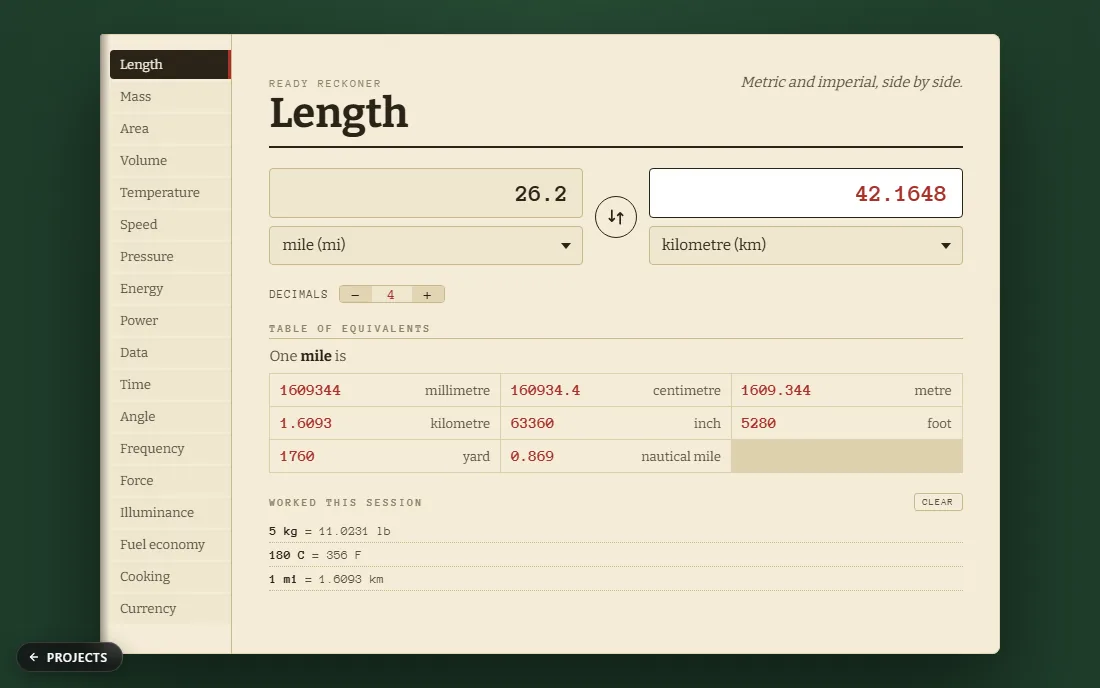
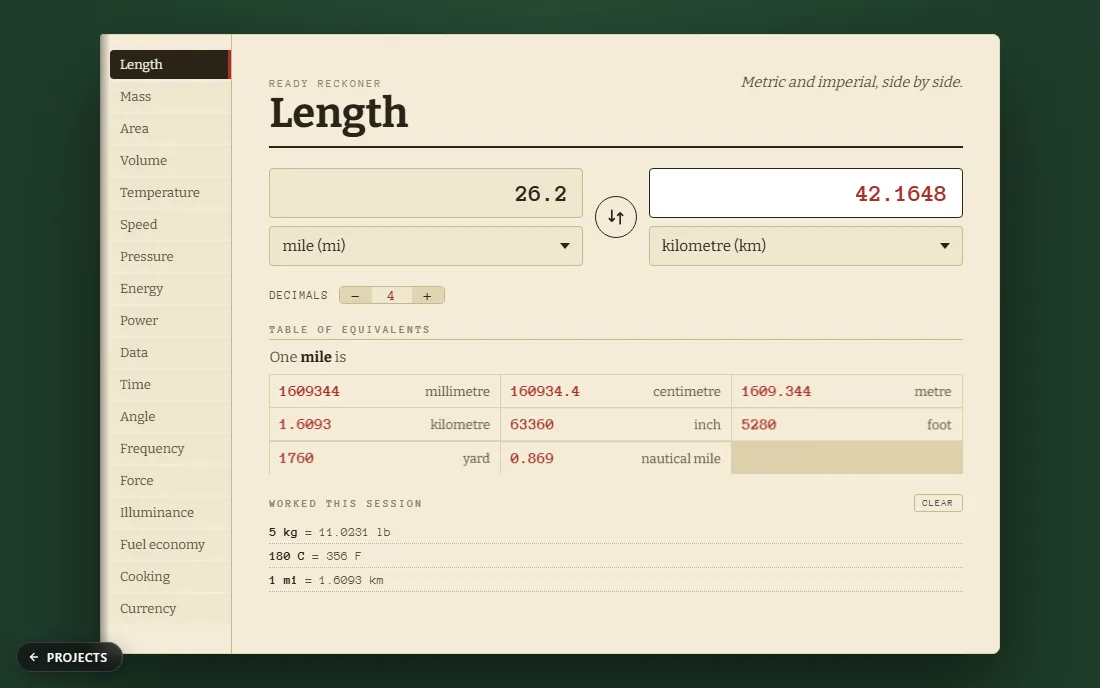
feat(portfolio): refresh Sapper and Tetrograd cards and thumbnails
- rename Deep Six -> Sapper and Dry Dock -> Tetrograd in the PROJECTS
  data; new accents (95 titlebar blue, phosphor amber), taglines,
  signature lines and tags; slugs unchanged
- refresh the Tools highlights for Lightbooth, Specimen, Slipbox and
  Ready Reckoner to match the new features
- re-shot all six 1100x688 thumbnails
- 404.html: recolour the two spectrum segments, add sapper/tetrograd
  name aliases to the jump box, refresh the hint

diff --git a/404.html b/404.html
@@ -91,7 +91,7 @@
       <svg viewBox="0 0 24 24" fill="none" stroke="currentColor" stroke-width="2" stroke-linecap="round" aria-hidden="true"><circle cx="11" cy="11" r="7"/><line x1="16.5" y1="16.5" x2="21" y2="21"/></svg>
       <input type="text" id="jumpInput" placeholder="Type a project name" autocomplete="off" spellcheck="false" aria-label="Jump to a project" />
     </label>
-    <p class="jump-hint" id="jumpHint">Try <b>reckoner</b>, <b>deep-six</b>, <b>slipbox</b>...</p>
+    <p class="jump-hint" id="jumpHint">Try <b>sapper</b>, <b>tetrograd</b>, <b>slipbox</b>...</p>
 
     <div class="hero-cta">
       <a class="btn btn-primary" href="/">Back to the wall</a>
@@ -101,7 +101,7 @@
 
   <script>
     var SLUGS = ["badlands","nibble","tic-tac-toe","arcade-hub","deep-six","dry-dock","cashbook","the-flatbed","soundroom","halcyon","xchange","the-cellar-door","taskly","vernier","the-sorting-office","meridian","lightbooth","specimen","slipbox","reckoner","spotify-clone","windows-11-ui-clone","compile","ephemeris","off-the-record","dispatch","deblog","ironclad","cinder-and-salt","the-order-window","thread-and-rail","kestrel","kino","sillage","the-terminal","deadstock","umbral","ember-and-anvil","nine-fifty-four","willowcomb"];
-    var ACCENTS = ["#f0a03c","#9ead86","#f2d47f","#12d0e6","#46c98a","#f2a81e","#b5292f","#ff5a1f","#e8933a","#6aa9d8","#ffce2e","#c9a227","#d0913f","#ff6248","#b0413e","#c8a45c","#d94f8c","#e2483d","#a9762f","#297a52","#1db954","#4b6bff","#a4e22e","#e3c27b","#a03c38","#ffb000","#c0392b","#ff6600","#d5622d","#ff3d81","#b81f2c","#8a7355","#e8a33d","#a2564e","#12d0e6","#ccff00","#ff7a33","#ff6a1a","#b8863f","#e9a227"];
+    var ACCENTS = ["#f0a03c","#9ead86","#f2d47f","#12d0e6","#1084d0","#ffb000","#b5292f","#ff5a1f","#e8933a","#6aa9d8","#ffce2e","#c9a227","#d0913f","#ff6248","#b0413e","#c8a45c","#d94f8c","#e2483d","#a9762f","#297a52","#1db954","#4b6bff","#a4e22e","#e3c27b","#a03c38","#ffb000","#c0392b","#ff6600","#d5622d","#ff3d81","#b81f2c","#8a7355","#e8a33d","#a2564e","#12d0e6","#ccff00","#ff7a33","#ff6a1a","#b8863f","#e9a227"];
 
     var spectrum = document.getElementById("spectrum");
     SLUGS.forEach(function (s, i) {
@@ -111,11 +111,16 @@
       spectrum.appendChild(seg);
     });
 
+    /* a few projects go by a name that is not their slug */
+    var ALIAS = { sapper: "deep-six", tetrograd: "dry-dock" };
+
     var input = document.getElementById("jumpInput");
     var hint = document.getElementById("jumpHint");
     function match(q) {
       q = q.trim().toLowerCase().replace(/\s+/g, "-");
       if (!q) return null;
+      if (ALIAS[q]) return ALIAS[q];
+      for (var a in ALIAS) { if (a.indexOf(q) === 0) return ALIAS[a]; }
       return SLUGS.find(function (s) { return s === q || s.indexOf(q) === 0; }) ||
              SLUGS.find(function (s) { return s.indexOf(q) > -1; });
     }

diff --git a/js/script.js b/js/script.js
@@ -18,12 +18,12 @@ const PROJECTS = [
   { slug: "arcade-hub", name: "Arcade Hub", cat: "game", accent: "#12d0e6", built: "2026-06",
     tagline: "Eight mini-games in one CRT arcade cabinet.",
     sig: "Eight games in one", tags: ["8 games", "Scanlines", "High scores"] },
-  { slug: "deep-six", name: "Deep Six", cat: "game", accent: "#46c98a", built: "2026-09",
-    tagline: "Minesweeper as a submarine sonar console.",
-    sig: "Sonar-sweep reveals", tags: ["First-click safe", "Chording", "Best-dive log"] },
-  { slug: "dry-dock", name: "Dry Dock", cat: "game", accent: "#f2a81e", built: "2026-09",
-    tagline: "Tetris as a dockyard container crane.",
-    sig: "Clear a tier, ship sails", tags: ["Canvas", "7-bag", "Hold + ghost"] },
+  { slug: "deep-six", name: "Sapper", cat: "game", accent: "#1084d0", built: "2026-09",
+    tagline: "Minesweeper the way Windows 95 shipped it.",
+    sig: "Smiley, LED counters, chording", tags: ["First-click safe", "Chording", "Best times"] },
+  { slug: "dry-dock", name: "Tetrograd", cat: "game", accent: "#ffb000", built: "2026-09",
+    tagline: "Tetris on a Soviet lab terminal, 1984.",
+    sig: "Pieces are [ ] brackets", tags: ["VT323 phosphor", "7-bag", "Hold + ghost"] },
 
   // tools
   { slug: "cashbook", name: "Cashbook", cat: "tool", accent: "#b5292f", built: "2026-08",
@@ -61,10 +61,10 @@ const PROJECTS = [
     sig: "Loupe + palette extract", tags: ["Eyedropper", "OKLCH", "WCAG contrast"] },
   { slug: "specimen", name: "Specimen", cat: "tool", accent: "#e2483d", built: "2026-09",
     tagline: "A type-foundry specimen book of nearly sixty faces.",
-    sig: "Set in your own words", tags: ["Google Fonts", "Type tester", "Pairings"] },
+    sig: "Compare, OpenType, waterfall", tags: ["Google Fonts", "Compare mode", "OpenType"] },
   { slug: "slipbox", name: "Slipbox", cat: "tool", accent: "#a9762f", built: "2026-09",
     tagline: "Notes as index cards in a card catalogue.",
-    sig: "Bracket links + backlinks", tags: ["Markdown-lite", "Wikilinks", "localStorage"] },
+    sig: "Bracket links + backlinks", tags: ["Markdown-lite", "Wikilinks", "Quick-open"] },
   { slug: "reckoner", name: "Ready Reckoner", cat: "tool", accent: "#297a52", built: "2026-09",
     tagline: "A pocket conversion book for units and live currency.",
     sig: "Everything, plus currency", tags: ["18 categories", "Live rates", "Equivalents"] },

diff --git a/README.md b/README.md
@@ -47,8 +47,8 @@ one opens it full screen. It is the site's front page.
 | [Nibble](nibble/) | Nokia 3310 olive LCD in a candybar phone | Classic/Wrap/Maze/Daily modes, combo scoring, swappable screen colour, local top-5, ghost run |
 | [Tic Tac Toe](tic-tac-toe/) | Schoolyard chalkboard in a wooden frame | Minimax AI (3 difficulties), confetti, sound |
 | [Arcade Hub](arcade-hub/) | CRT arcade cabinet with scanlines | 8 mini-games: Wordle, 2048, Simon, Memory and more |
-| [Deep Six](deep-six/) | Minesweeper as a submarine sonar console | First-click safe, flood reveal, chording, sonar-sweep pings, 3 hull sizes, custom board, keyboard play, best-dive log |
-| [Dry Dock](dry-dock/) | Tetris as a dockyard gantry crane | Canvas engine, 7-bag randomiser, ghost piece, crane-park hold, lock delay, rising-tide levels, manifest queue, high score |
+| [Sapper](deep-six/) | Minesweeper the way Windows 95 shipped it | Silver bevels, LED mine and timer counters, the smiley reset button, classic digit colours, first-click safe, flood reveal, chording, question marks, custom field, keyboard play, best times, optional sound |
+| [Tetrograd](dry-dock/) | Tetris on a Soviet Elektronika 60 terminal, 1984 | Amber phosphor, scanlines, pieces drawn as bracket pairs, boot sequence, 7-bag, ghost piece, hold, lock delay, level gravity, square-wave beeps, screen shake, high score |
 
 ## Tools and apps
 
@@ -64,10 +64,10 @@ one opens it full screen. It is the site's front page.
 | [Vernier](vernier/) | Cyanotype blueprint drafting sheet | Six sheets - standard, scientific, programmer, unit converter, date, finance - with a revision record |
 | [The Sorting Office](the-sorting-office/) | Postal-desk email inspector | Live DoH domain lookup, disposable and gibberish detection, batch sorting, inspection-ledger stats, night shift |
 | [Meridian](meridian/) | Luxury horology, five dial finishes | SVG watchface, timezones, brushed and guilloche dials |
-| [Lightbooth](lightbooth/) | Standardised colour-matching viewing booth, neutral grey | Drop an image, loupe eyedropper, palette extraction, HEX / RGB / HSL / OKLCH, WCAG contrast checker, tint and shade ramps, saved shelf, export |
-| [Specimen](specimen/) | Metal-type foundry specimen book | Nearly sixty Google Fonts loaded on scroll, live tester (size, weight, leading, tracking, case), pangram / paragraph / glyph views, category filter, pairing suggestions, favourites, copy embed |
-| [Slipbox](slipbox/) | Oak card-catalogue Zettelkasten | Notes as index cards, markdown-lite, `[[wikilinks]]` with a backlinks panel, tab-divider tags, full-text search, pin, sort, export to Markdown or JSON, import |
-| [Ready Reckoner](reckoner/) | Pocket ready-reckoner reference book | 18 categories from length to illuminance, live currency (open.er-api.com) with an offline fallback, from / to with swap, precision stepper, table of equivalents, session ledger |
+| [Lightbooth](lightbooth/) | Standardised colour-matching viewing booth, neutral grey | Drop an image, loupe eyedropper, palette extraction, editable HEX / RGB / HSL fields and R/G/B sliders, OKLCH readout, WCAG contrast checker, tint and shade ramps, saved shelf, export |
+| [Specimen](specimen/) | Metal-type foundry specimen book | Nearly sixty Google Fonts loaded on scroll, control sidebar, live tester (size, weight, leading, tracking, case), ground and density toggles, OpenType feature switches, compare two faces, pairing suggestions, animated selects, favourites |
+| [Slipbox](slipbox/) | Oak card-catalogue Zettelkasten | Notes as index cards, markdown-lite with task checkboxes, blockquotes and rules, `[[wikilinks]]` with a backlinks panel, quick-open palette, keyboard shortcuts, tab-divider tags, search highlight, export and import |
+| [Ready Reckoner](reckoner/) | Pocket ready-reckoner reference book | 18 categories from length to illuminance, live currency (open.er-api.com) with an offline fallback, animated unit pickers with a filter box, result count-up, page turns between categories, table of equivalents, session ledger |
 
 ## UI clones and templates
 
